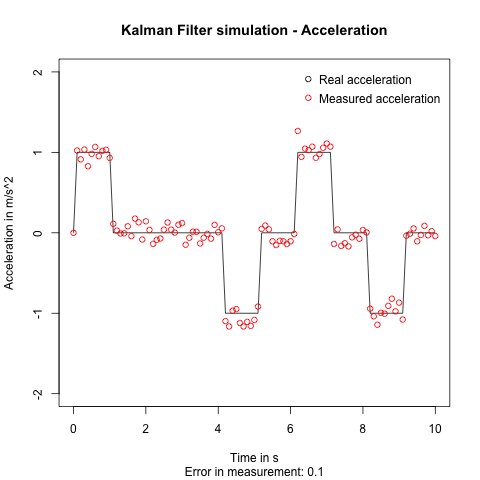
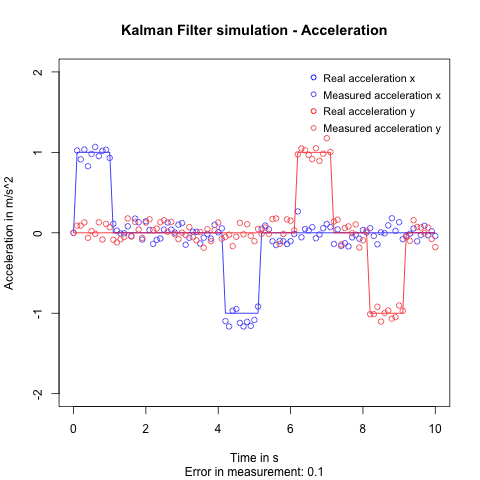
Refactor to get acceleration in x and y

Changed region(s): [[0.125, 0.1562, 0.9375, 0.6875], [0.5938, 0.25, 0.625, 0.2812]]

diff --git a/2d_filter/c_code/src/main.cpp b/2d_filter/c_code/src/main.cpp
@@ -46,7 +46,8 @@ Matrix<3,1> calculate_erroneous_measurements(float time, float acc_error, float 
     normal_distribution<float> rand_rot(0.0, rot_error);
 
     z(0) = z(0) + rand_acc(rng);
-    z(1) = z(1) + rand_rot(rng);
+    z(1) = z(1) + rand_acc(rng);
+    z(2) = z(2) + rand_rot(rng);
     
     return z;
 }
